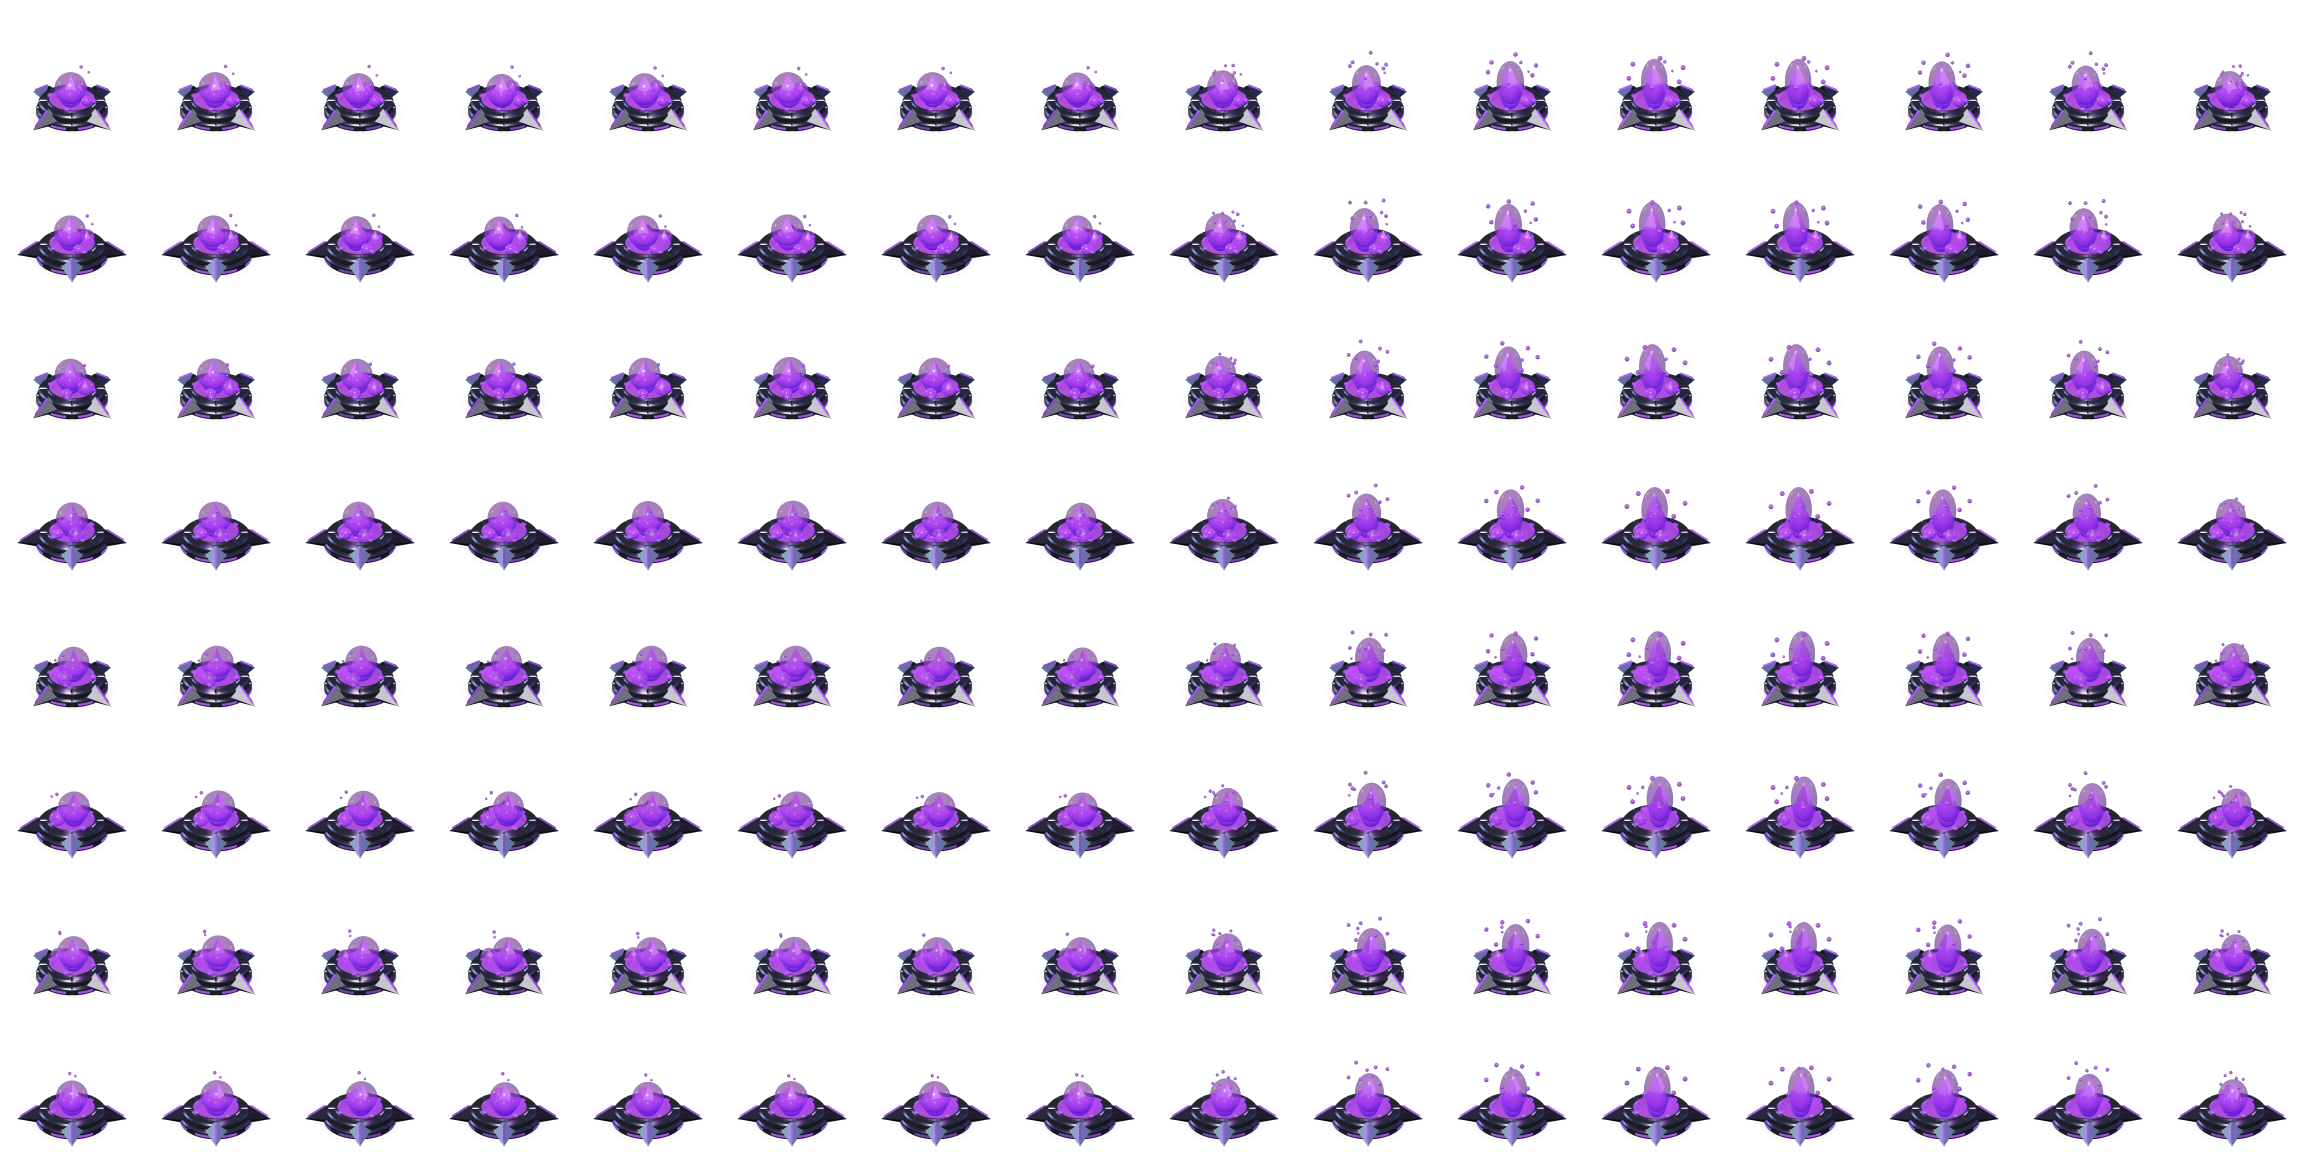
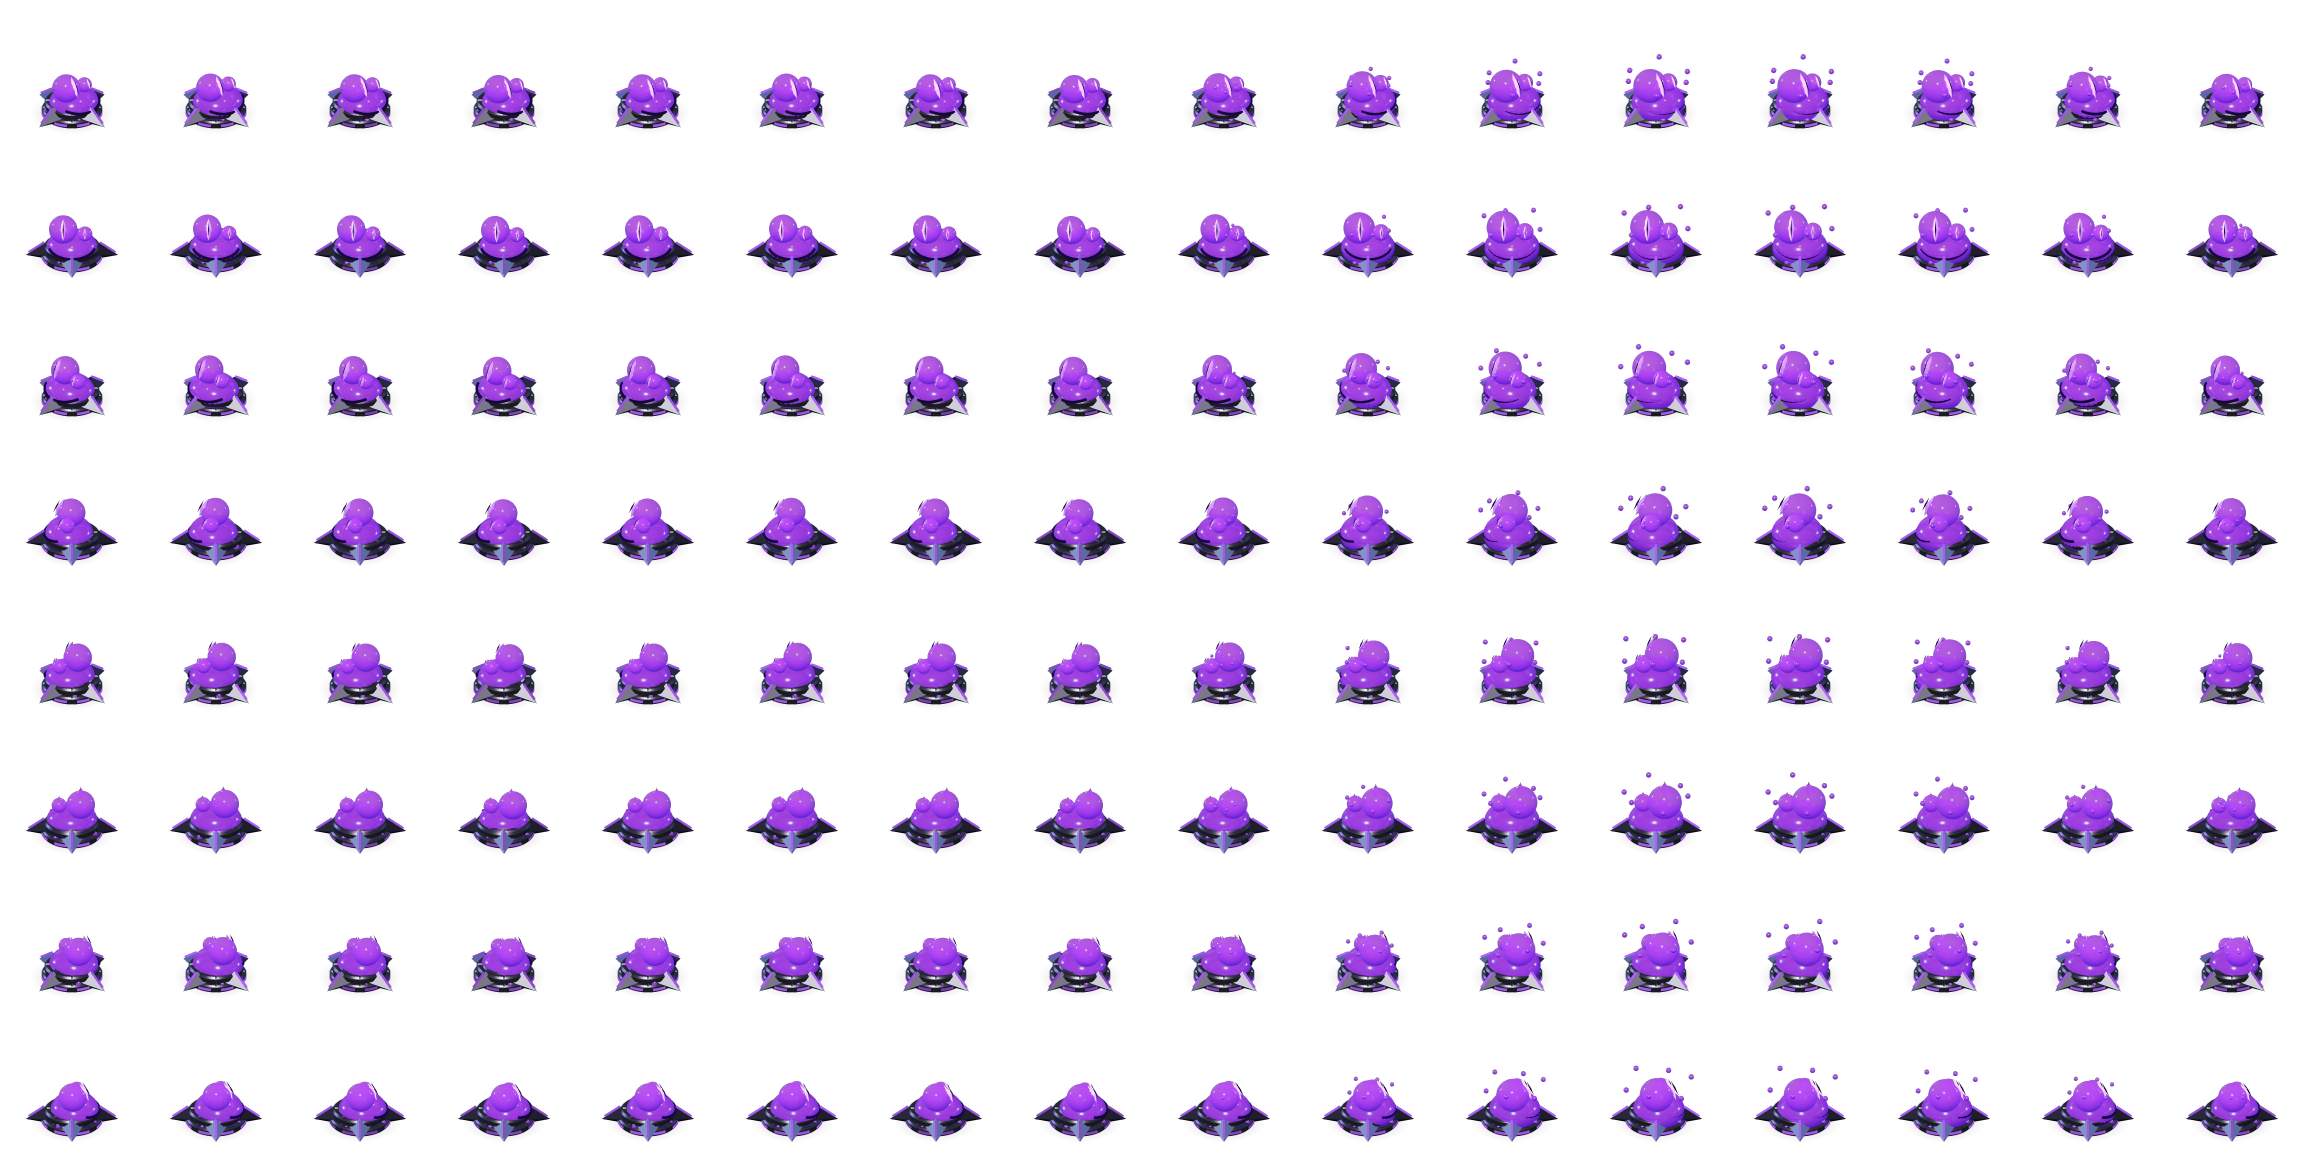
The Goo Proxy is the frog now (design No. 853, approved)
ASKED: "a frog face with diamond eye iris and one is way bigger than the
other and smaller ring", "thinner diamonds", then "Yep" to putting it in.

- img/evo/gooproxy is baked from No. 853: a head of violet goo in a small
  black spiked ring, two bulging eyes on top (one far bigger), a thin
  diamond for each iris with a slit of a pupil, a wide smile. Idle: it
  breathes and looks about. Action: the head puffs, the eyes pop.
- The first design (No. 850) stays in the design file, baked by
  bake.js as gooproxy_old for comparison.
- Tests: evolution, landing page, moves, INFO, index, boot.

Build 2026-10-28b.

Claude-Session: https://claude.ai/code/session_0115DZYYhipQqSk6LHvQcEfz

diff --git a/game.html b/game.html
@@ -1573,12 +1573,12 @@ function _showError(msg) {
 // Script files that failed to download. A missing file raises no error of its
 // own — only the "Can't find variable" from whatever needed it — so the load
 // failure is caught here, on its way down (capture phase).
-// THE BUILD. Every script URL below carries ?v=2026-10-28a, so a new deploy
+// THE BUILD. Every script URL below carries ?v=2026-10-28b, so a new deploy
 // fetches a matching set: REPORTED, an iPad ran the new js/indexart.js against
 // an old cached js/config.js ("Attempted to assign to readonly property").
 // Change this, the ?v= on every script tag and BUILD_VERSION in js/config.js
 // together (tests/boot.js checks they agree).
-window.__PAGE_BUILD = "2026-10-28a";
+window.__PAGE_BUILD = "2026-10-28b";
 window.__bootFailed = [];
 window.addEventListener("error", function (e) {
     var t = e && e.target;
@@ -1614,71 +1614,71 @@ if (!CanvasRenderingContext2D.prototype.roundRect) {
 </script>
 
 <!-- Game scripts — load order matters (globals first, logic last) -->
-<script src="js/config.js?v=2026-10-28a"></script>
-<script src="js/icons.js?v=2026-10-28a"></script>
-<script src="js/uikit.js?v=2026-10-28a"></script>
-<script src="js/traits.js?v=2026-10-28a"></script>
-<script src="js/elements.js?v=2026-10-28a"></script>
-<script src="js/combat.js?v=2026-10-28a"></script>
-<script src="js/species.js?v=2026-10-28a"></script>
-<script src="js/levels.js?v=2026-10-28a"></script>
-<script src="js/status.js?v=2026-10-28a"></script>
-<script src="js/helpers.js?v=2026-10-28a"></script>
-<script src="js/predator.js?v=2026-10-28a"></script>
-<script src="js/abilities.js?v=2026-10-28a"></script>
-<script src="js/commands.js?v=2026-10-28a"></script>
-<script src="js/npc.js?v=2026-10-28a"></script>
-<script src="js/draw.js?v=2026-10-28a"></script>
-<script src="js/beetle3d.js?v=2026-10-28a"></script>
-<script src="js/bugs3d.js?v=2026-10-28a"></script>
-<script src="js/settings.js?v=2026-10-28a"></script>
-<script src="js/alarm.js?v=2026-10-28a"></script>
-<script src="js/drops.js?v=2026-10-28a"></script>
-<script src="js/clone.js?v=2026-10-28a"></script>
-<script src="js/bonds.js?v=2026-10-28a"></script>
-<script src="js/evolution.js?v=2026-10-28a"></script>
-<script src="js/hdsprites.js?v=2026-10-28a"></script>
-<script src="js/firebombs.js?v=2026-10-28a"></script>
-<script src="js/moves.js?v=2026-10-28a"></script>
-<script src="js/hudgems.js?v=2026-10-28a"></script>
-<script src="js/commandcenter.js?v=2026-10-28a"></script>
-<script src="js/unitinfo.js?v=2026-10-28a"></script>
-<script src="js/infodex.js?v=2026-10-28a"></script>
-<script src="js/classes.js?v=2026-10-28a"></script>
-<script src="js/playergear.js?v=2026-10-28a"></script>
-<script src="js/inventory.js?v=2026-10-28a"></script>
-<script src="js/weapons.js?v=2026-10-28a"></script>
-<script src="js/mutator.js?v=2026-10-28a"></script>
-<script src="js/specimen.js?v=2026-10-28a"></script>
-<script src="js/serum.js?v=2026-10-28a"></script>
-<script src="js/technomancer.js?v=2026-10-28a"></script>
-<script src="js/stations.js?v=2026-10-28a"></script>
-<script src="js/facilityportals.js?v=2026-10-28a"></script>
-<script src="js/tutorial.js?v=2026-10-28a"></script>
-<script src="js/facilitymap.js?v=2026-10-28a"></script>
-<script src="js/facilitygrow.js?v=2026-10-28a"></script>
-<script src="js/facility.js?v=2026-10-28a"></script>
-<script src="js/attract.js?v=2026-10-28a"></script>
-<script src="js/facilitysave.js?v=2026-10-28a"></script>
-<script src="js/facilityplay.js?v=2026-10-28a"></script>
-<script src="js/facilitydecor.js?v=2026-10-28a"></script>
-<script src="js/propatlas.js?v=2026-10-28a"></script>
-<script src="js/propsprites.js?v=2026-10-28a"></script>
-<script src="js/facilitystyle.js?v=2026-10-28a"></script>
-<script src="js/facilitystyleall.js?v=2026-10-28a"></script>
-<script src="js/facilitynet.js?v=2026-10-28a"></script>
-<script src="js/facilityspawn.js?v=2026-10-28a"></script>
-<script src="js/followerspots.js?v=2026-10-28a"></script>
-<script src="js/party.js?v=2026-10-28a"></script>
-<script src="js/squadfly.js?v=2026-10-28a"></script>
-<script src="js/facilitytutorial.js?v=2026-10-28a"></script>
-<script src="js/gunfire.js?v=2026-10-28a"></script>
-<script src="js/targeting.js?v=2026-10-28a"></script>
-<script src="js/toolbox.js?v=2026-10-28a"></script>
-<script src="js/mixtool.js?v=2026-10-28a"></script>
-<script src="js/radialmenu.js?v=2026-10-28a"></script>
-<script src="js/input.js?v=2026-10-28a"></script>
-<script src="js/game.js?v=2026-10-28a"></script>
+<script src="js/config.js?v=2026-10-28b"></script>
+<script src="js/icons.js?v=2026-10-28b"></script>
+<script src="js/uikit.js?v=2026-10-28b"></script>
+<script src="js/traits.js?v=2026-10-28b"></script>
+<script src="js/elements.js?v=2026-10-28b"></script>
+<script src="js/combat.js?v=2026-10-28b"></script>
+<script src="js/species.js?v=2026-10-28b"></script>
+<script src="js/levels.js?v=2026-10-28b"></script>
+<script src="js/status.js?v=2026-10-28b"></script>
+<script src="js/helpers.js?v=2026-10-28b"></script>
+<script src="js/predator.js?v=2026-10-28b"></script>
+<script src="js/abilities.js?v=2026-10-28b"></script>
+<script src="js/commands.js?v=2026-10-28b"></script>
+<script src="js/npc.js?v=2026-10-28b"></script>
+<script src="js/draw.js?v=2026-10-28b"></script>
+<script src="js/beetle3d.js?v=2026-10-28b"></script>
+<script src="js/bugs3d.js?v=2026-10-28b"></script>
+<script src="js/settings.js?v=2026-10-28b"></script>
+<script src="js/alarm.js?v=2026-10-28b"></script>
+<script src="js/drops.js?v=2026-10-28b"></script>
+<script src="js/clone.js?v=2026-10-28b"></script>
+<script src="js/bonds.js?v=2026-10-28b"></script>
+<script src="js/evolution.js?v=2026-10-28b"></script>
+<script src="js/hdsprites.js?v=2026-10-28b"></script>
+<script src="js/firebombs.js?v=2026-10-28b"></script>
+<script src="js/moves.js?v=2026-10-28b"></script>
+<script src="js/hudgems.js?v=2026-10-28b"></script>
+<script src="js/commandcenter.js?v=2026-10-28b"></script>
+<script src="js/unitinfo.js?v=2026-10-28b"></script>
+<script src="js/infodex.js?v=2026-10-28b"></script>
+<script src="js/classes.js?v=2026-10-28b"></script>
+<script src="js/playergear.js?v=2026-10-28b"></script>
+<script src="js/inventory.js?v=2026-10-28b"></script>
+<script src="js/weapons.js?v=2026-10-28b"></script>
+<script src="js/mutator.js?v=2026-10-28b"></script>
+<script src="js/specimen.js?v=2026-10-28b"></script>
+<script src="js/serum.js?v=2026-10-28b"></script>
+<script src="js/technomancer.js?v=2026-10-28b"></script>
+<script src="js/stations.js?v=2026-10-28b"></script>
+<script src="js/facilityportals.js?v=2026-10-28b"></script>
+<script src="js/tutorial.js?v=2026-10-28b"></script>
+<script src="js/facilitymap.js?v=2026-10-28b"></script>
+<script src="js/facilitygrow.js?v=2026-10-28b"></script>
+<script src="js/facility.js?v=2026-10-28b"></script>
+<script src="js/attract.js?v=2026-10-28b"></script>
+<script src="js/facilitysave.js?v=2026-10-28b"></script>
+<script src="js/facilityplay.js?v=2026-10-28b"></script>
+<script src="js/facilitydecor.js?v=2026-10-28b"></script>
+<script src="js/propatlas.js?v=2026-10-28b"></script>
+<script src="js/propsprites.js?v=2026-10-28b"></script>
+<script src="js/facilitystyle.js?v=2026-10-28b"></script>
+<script src="js/facilitystyleall.js?v=2026-10-28b"></script>
+<script src="js/facilitynet.js?v=2026-10-28b"></script>
+<script src="js/facilityspawn.js?v=2026-10-28b"></script>
+<script src="js/followerspots.js?v=2026-10-28b"></script>
+<script src="js/party.js?v=2026-10-28b"></script>
+<script src="js/squadfly.js?v=2026-10-28b"></script>
+<script src="js/facilitytutorial.js?v=2026-10-28b"></script>
+<script src="js/gunfire.js?v=2026-10-28b"></script>
+<script src="js/targeting.js?v=2026-10-28b"></script>
+<script src="js/toolbox.js?v=2026-10-28b"></script>
+<script src="js/mixtool.js?v=2026-10-28b"></script>
+<script src="js/radialmenu.js?v=2026-10-28b"></script>
+<script src="js/input.js?v=2026-10-28b"></script>
+<script src="js/game.js?v=2026-10-28b"></script>
 <script>
 // ── BOOT CHECK ────────────────────────────────────────────
 // Every file above must have arrived and run before init.js starts the game.
@@ -1733,7 +1733,7 @@ if (!CanvasRenderingContext2D.prototype.roundRect) {
     document.body.appendChild(d);
 })();
 </script>
-<script src="js/init.js?v=2026-10-28a"></script>
+<script src="js/init.js?v=2026-10-28b"></script>
 
 </body>
 </html>

diff --git a/design/evolutions/bake.js b/design/evolutions/bake.js
@@ -22,11 +22,11 @@ const JOBS = [
   { id: 'jellyram', form: 860, color: '#00ccaa', idleAct: 0, action: [0, 1.0], pulse: true, glowNormal: true },
   { id: 'jellyram_blue', form: 860, color: '#2f6bff', idleAct: 0, action: [0, 1.0], pulse: true, glowNormal: true },
   { id: 'rimestar', form: 861, color: '#7fd6ff', idleAct: 0, action: [0, 1.0], pulse: true, glowNormal: true },
-  // Nos. 850-852 (forms31.js), the technicians' forms from the user's sheets: the flux GOO PROXY (the goo turns round its ring; its action heaves it up and throws drops), the fire THERMITE BURROWER
-  // (it walks on the spot, the drill turning; its action spins the drill white-hot) and the ice IGLOO SKATER (it glides; its action is a spin with a ring of frost).
-  { id: 'gooproxy', form: 850, color: '#9933ff', idleAct: 0, action: [0, 1.0], pulse: true, glowNormal: true },
-  // No. 853, the Goo Proxy as a frog (the user's ask on 850): a candidate until approved.
-  { id: 'gooproxy_frog', form: 853, color: '#9933ff', idleAct: 0, action: [0, 1.0], pulse: true, glowNormal: true },
+  // Nos. 851-853 (forms31.js), the technicians' forms from the user's sheets: the flux GOO PROXY as a frog (No. 853, which replaced No. 850 on the user's review: it breathes and
+  // looks about; its action puffs the head and pops the eyes), the fire THERMITE BURROWER (it walks on the spot, the drill turning; its action spins the drill white-hot) and the
+  // ice IGLOO SKATER (it glides; its action is a spin with a ring of frost).
+  { id: 'gooproxy', form: 853, color: '#9933ff', idleAct: 0, action: [0, 1.0], pulse: true, glowNormal: true },
+  { id: 'gooproxy_old', form: 850, color: '#9933ff', idleAct: 0, action: [0, 1.0], pulse: true, glowNormal: true },   // (the first Goo Proxy, before the review)
   { id: 'thermite', form: 851, color: '#ff3300', idleAct: 0, action: [0, 1.0], pulse: true, glowNormal: true },
   { id: 'igloo', form: 852, color: '#7fd6ff', idleAct: 0, action: [0, 1.0], pulse: true, glowNormal: true },
   // Nos. 831-836, the clear glass egg on six dark metal leg sets: candidates.

diff --git a/js/evolution.js b/js/evolution.js
@@ -189,10 +189,11 @@ const EVOLUTIONS = {
     hammerslug:{ id: "hammerslug", name: "HAMMER SLUG", element: "core", role: "camper", move: "AEGIS BURST", sheet: "img/evo/hammerslug.png",
               cell: 144, anchor: [72, 114.2], core: [72, 99.5], noGlow: true, color: "#33e6c4" },
     // THE TECHNICIANS' FORMS ("camper" in the code), from the user's sheets. No signature move: the technician's job is the user's exploration tools, to come.
-    // The FLUX TECHNICIAN, design No. 850 (the "GOO PROXY" sheet): a black ring of eight segments on four spikes lit along their ridges, a pool of violet goo
-    // in it round a big diamond. The goo sloshes and the diamonds turn, so the sheet carries its own light.
+    // The FLUX TECHNICIAN, design No. 853 (the "GOO PROXY" sheet, then the user's review: "a frog face with diamond eye iris and one is way bigger than the other and
+    // smaller ring", "thinner diamonds"): a head of violet goo in a small black spiked ring, two bulging eyes on top, one far bigger than the other, a thin diamond for
+    // each iris with a slit of a pupil, a wide smile. It breathes and looks about, so the sheet carries its own light.
     gooproxy:{ id: "gooproxy", name: "GOO PROXY", element: "flux", role: "camper", sheet: "img/evo/gooproxy.png",
-              cell: 144, anchor: [72, 114.2], core: [72, 87.4], noGlow: true, color: "#bb66ff" },
+              cell: 144, anchor: [72, 114.2], core: [72, 85.1], noGlow: true, color: "#bb66ff" },
     // The FIRE TECHNICIAN, design No. 851 (the "THERMITE BU…" sheet, its name cut off on it): a hunched armoured digger on four plated legs, a cone drill
     // for a nose glowing in its grooves, a hot vent on its back. The drill turns, so the sheet carries its own light.
     thermite:{ id: "thermite", name: "THERMITE BURROWER", element: "fire", role: "camper", sheet: "img/evo/thermite.png",

diff --git a/js/config.js b/js/config.js
@@ -6,7 +6,7 @@
 
 // The build this file belongs to — the same as window.__PAGE_BUILD and the
 // ?v= on every script tag in game.html (the boot check compares them).
-const BUILD_VERSION = "2026-10-28a";
+const BUILD_VERSION = "2026-10-28b";
 
 // ── GLOBAL ERROR DISPLAY ──────────────────────────────────
 // Lives in game.html (_showError), before any file loads. This file used to
